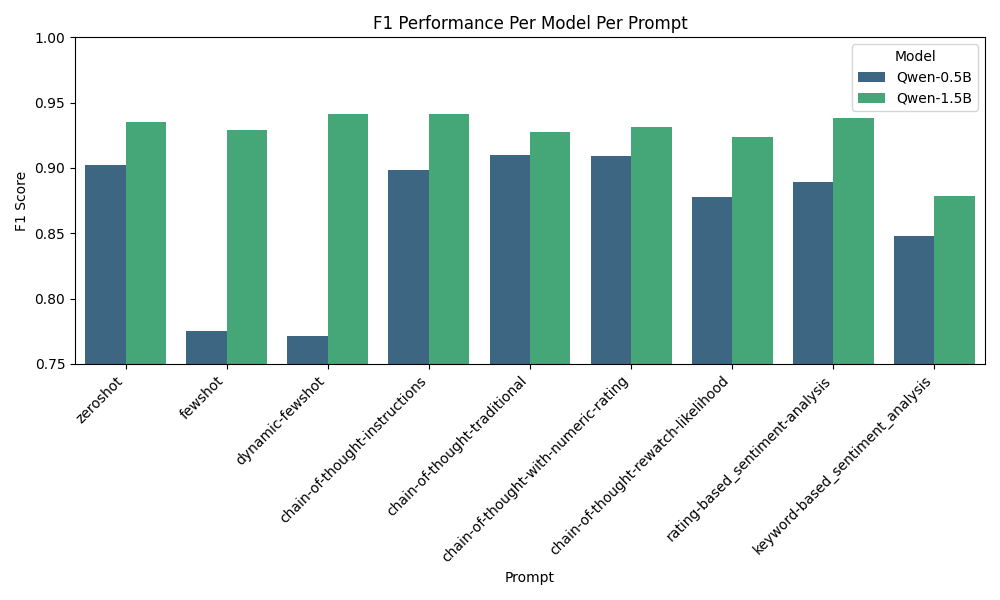
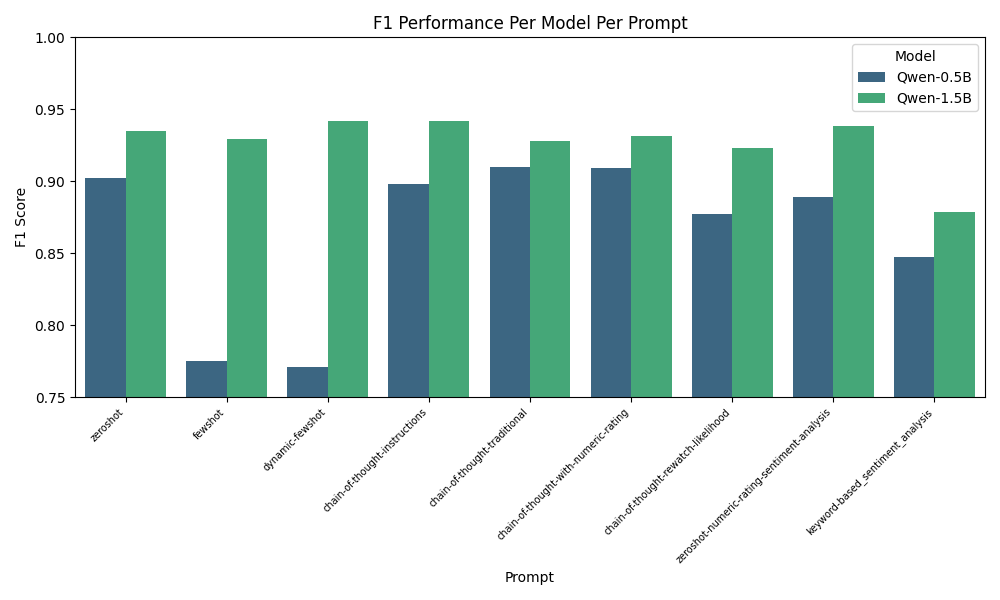
Rename to zeroshot-numeric-rating-sentiment-analysis

diff --git a/prompts/prompt_methods.py b/prompts/prompt_methods.py
@@ -15,7 +15,7 @@ PROMPT_METHODS = {
     "chain-of-thought-traditional": chain_of_thought_traditional_prompt,
     "chain-of-thought-with-numeric-rating": chain_of_thought_with_numeric_ratings_prompt,
     "chain-of-thought-rewatch-likelihood": chain_of_thought_with_likelihood_to_rewatch_prompt,
-    "rating-based_sentiment-analysis": rating_based_sentiment_analysis_prompt,
+    "zeroshot-numeric-rating-sentiment-analysis": rating_based_sentiment_analysis_prompt,
     "keyword-based_sentiment_analysis": keyword_sentiment_analysis_prompt,
 }
 
